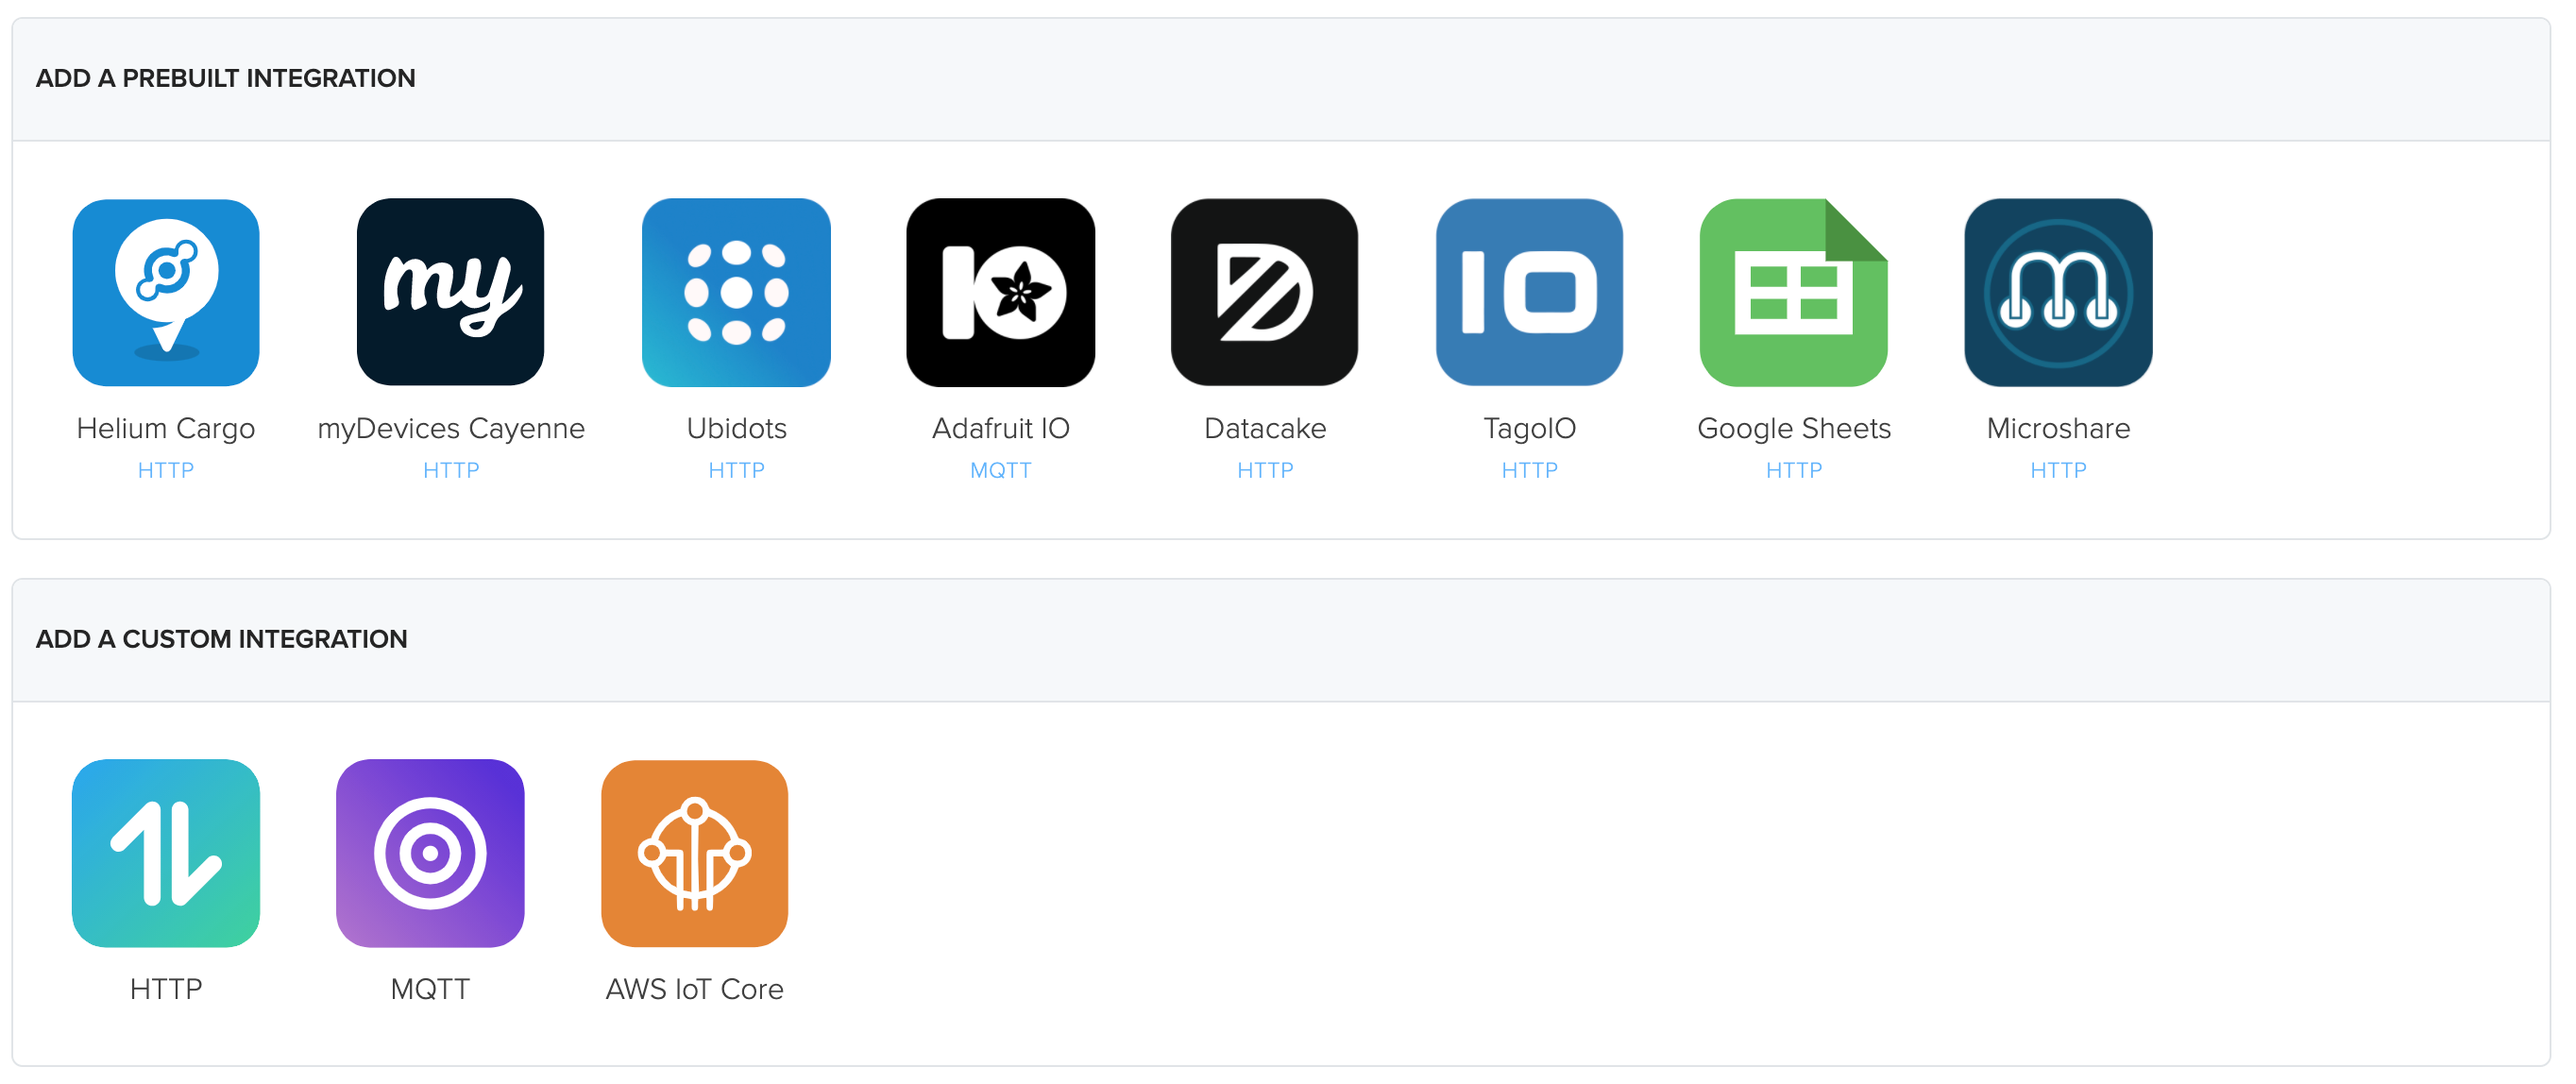
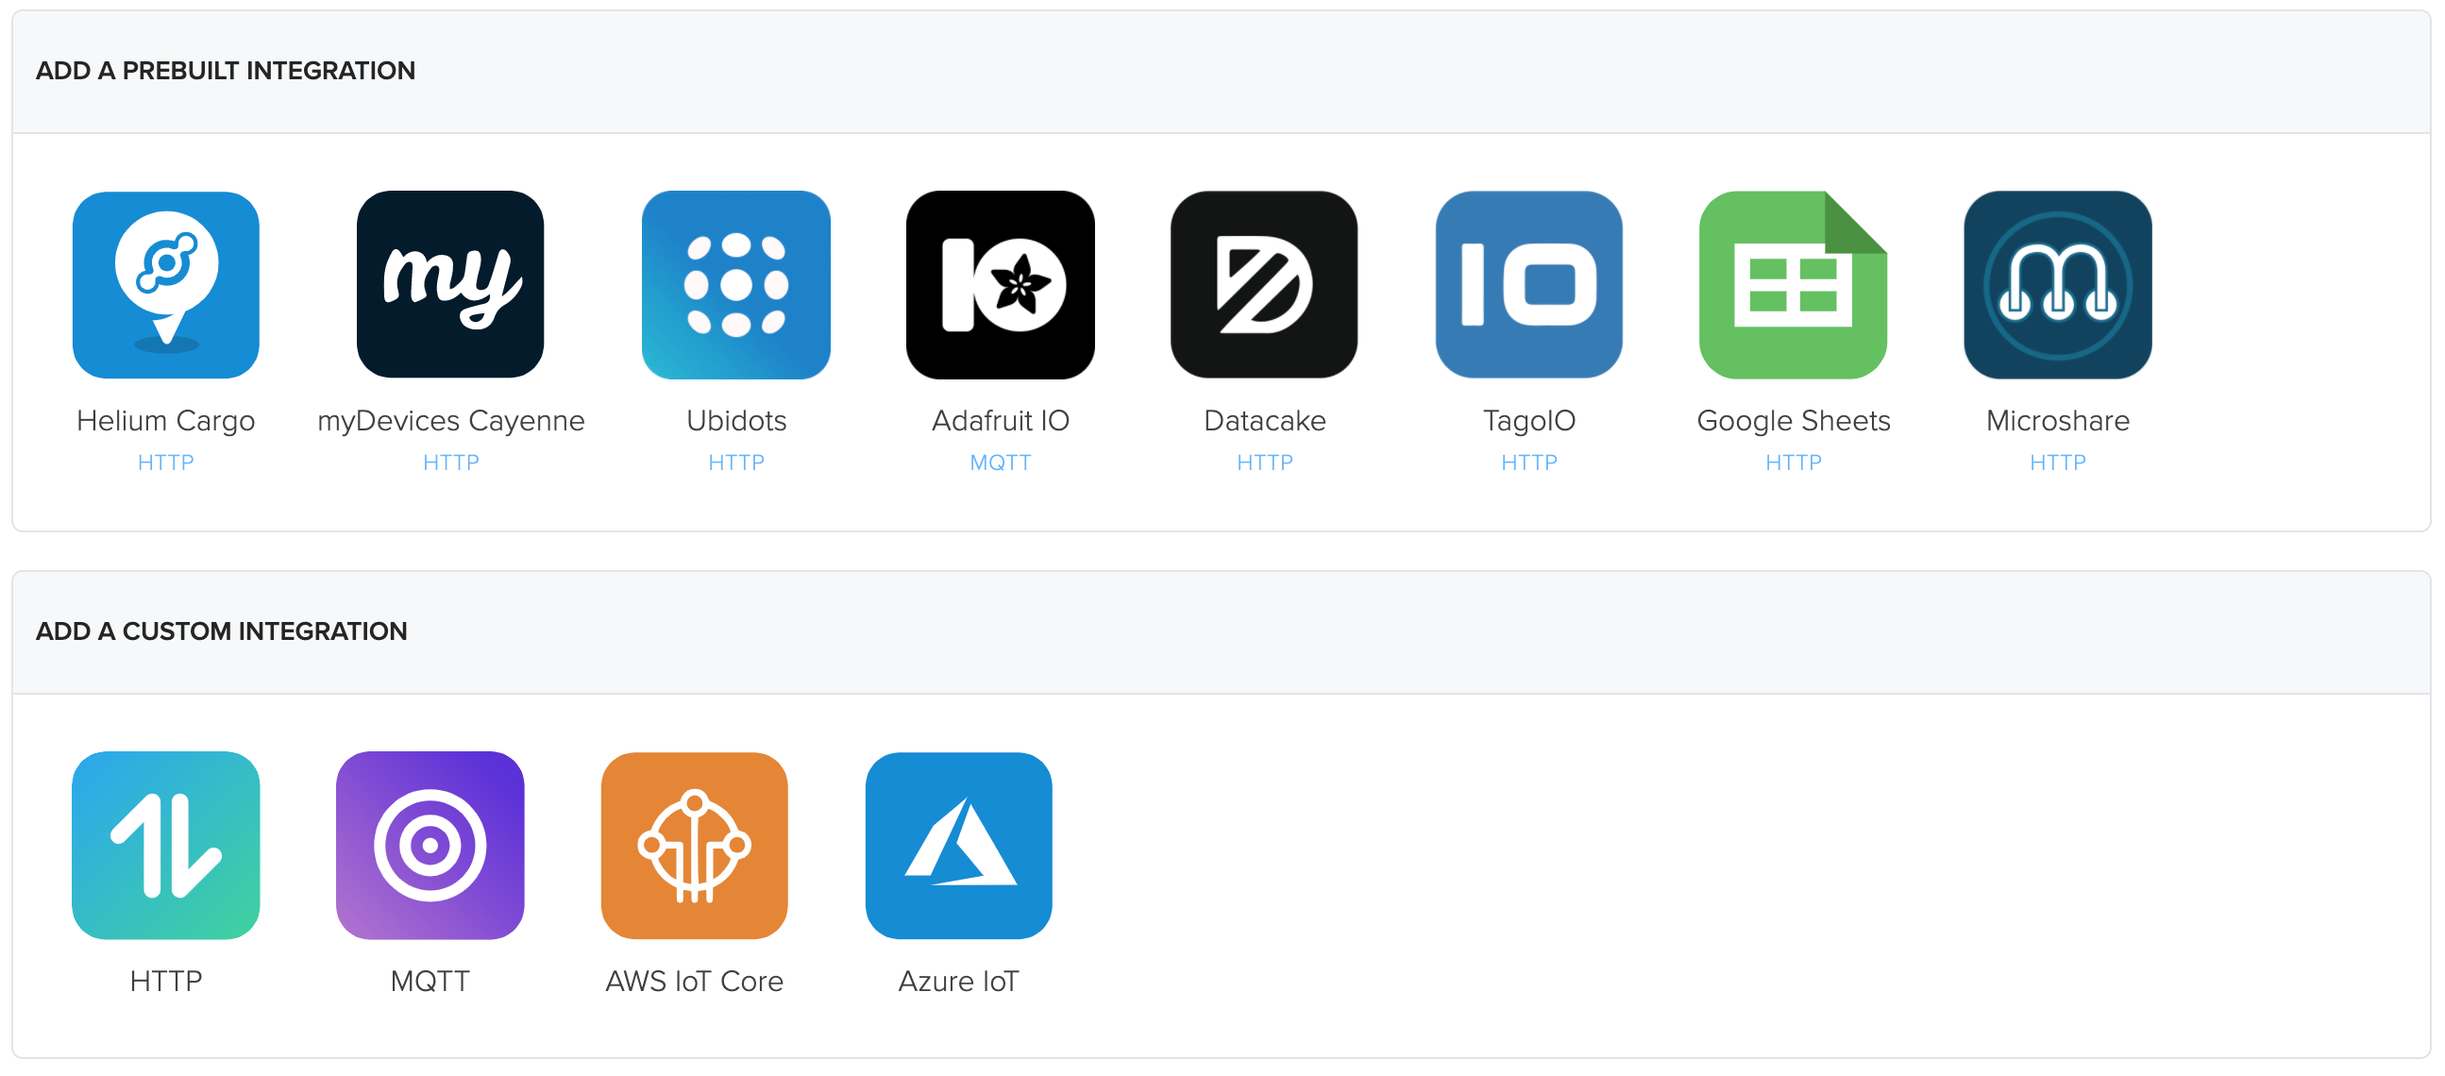
azure-int-docs (#632)
how-to docs for azure int

diff --git a/sidebarsDocs.js b/sidebarsDocs.js
@@ -155,7 +155,7 @@ module.exports = {
     {
       type: 'category',
       label: 'Integrations',
-      items: ['use-the-network/console/integrations/json-schema', 'use-the-network/console/integrations/http', 'use-the-network/console/integrations/mqtt', 'use-the-network/console/integrations/aws-iot-core', 'use-the-network/console/integrations/cargo', 'use-the-network/console/integrations/datacake', 'use-the-network/console/integrations/mydevices-cayenne', 'use-the-network/console/integrations/adafruitio', 'use-the-network/console/integrations/ubidots', 'use-the-network/console/integrations/tago', 'use-the-network/console/integrations/google-sheets', 'use-the-network/console/integrations/microshare'],
+      items: ['use-the-network/console/integrations/json-schema', 'use-the-network/console/integrations/http', 'use-the-network/console/integrations/mqtt', 'use-the-network/console/integrations/azure', 'use-the-network/console/integrations/aws-iot-core', 'use-the-network/console/integrations/cargo', 'use-the-network/console/integrations/datacake', 'use-the-network/console/integrations/mydevices-cayenne', 'use-the-network/console/integrations/adafruitio', 'use-the-network/console/integrations/ubidots', 'use-the-network/console/integrations/tago', 'use-the-network/console/integrations/google-sheets', 'use-the-network/console/integrations/microshare'],
       collapsed: false,
     },
   ],
